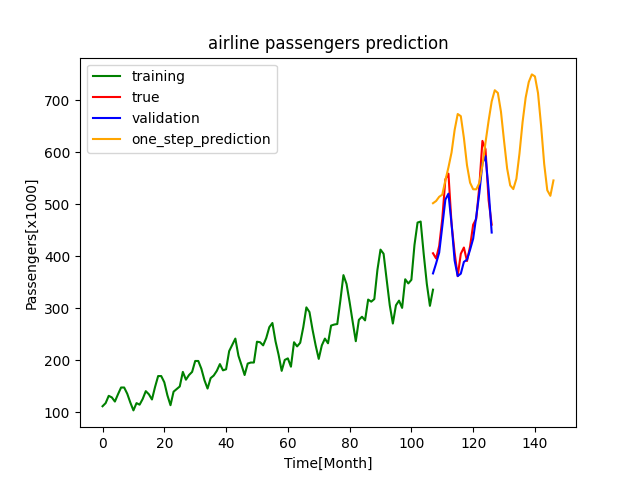
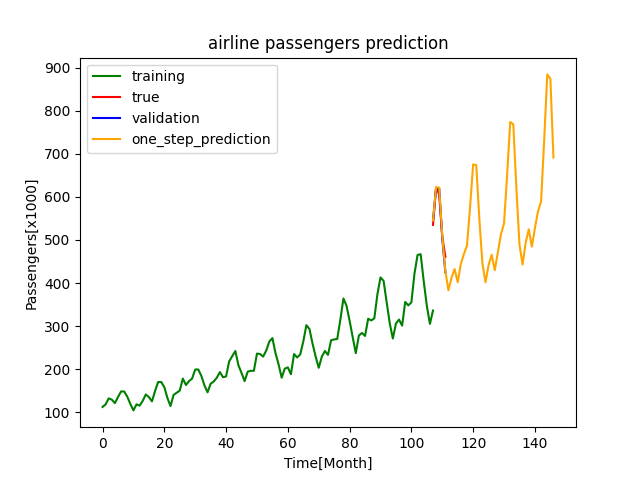
adjust parameters for airline_passengers_forecasting_keras.py

diff --git a/TimeSeriesPrediction/2_UnivariantTimeSeriesForecast/AirlinePassengers/Keras/airline_passengers_forecasting_keras.py b/TimeSeriesPrediction/2_UnivariantTimeSeriesForecast/AirlinePassengers/Keras/airline_passengers_forecasting_keras.py
@@ -4,8 +4,6 @@ import tensorflow as tf
 import matplotlib.pyplot as plt
 from sklearn.preprocessing import MinMaxScaler
 
-# Normalizer, LSTM, LSTM-Architecture, Beschreibung
-
 
 class AirlinePassengersDataSet:
     def __init__(self):
@@ -36,20 +34,24 @@ def create_timeseries(data, previous=1):
     return np.array(inputs), np.array(targets)
 
 
-lookback = 15
+lookback = 30
 train_inputs, train_targets = create_timeseries(train, lookback)
 test_inputs, test_targets = create_timeseries(test, lookback)
 
 train_inputs = np.reshape(train_inputs, (train_inputs.shape[0], 1, train_inputs.shape[1]))
 test_inputs = np.reshape(test_inputs, (test_inputs.shape[0], 1, test_inputs.shape[1]))
 
-
+# training scedular learning rate wird angepasst nach x epochs
+# Bidirectionales lernen - Zeitreihe umkehren - https://keras.io/examples/nlp/bidirectional_lstm_imdb/
+# Kompletten daten fürs Training nehmen
+# Masked traning - Lücken in Traningsdaten schließen
 def create_LSTM_model(inputs, targets, lookback):
     model = tf.keras.Sequential()
-    model.add(tf.keras.layers.LSTM(8, input_shape=(1, lookback)))
+    model.add(tf.keras.layers.LSTM(50, input_shape=(1, lookback)))
+    #model.add(tf.keras.layers.Dropout)
     model.add(tf.keras.layers.Dense(units=1))
-    model.compile(optimizer=tf.keras.optimizers.Adam(0.001), loss='mean_squared_error')
-    model.fit(inputs, targets, epochs=25, batch_size=1)
+    model.compile(optimizer=tf.keras.optimizers.Adam(0.0001), loss='mean_squared_error')
+    model.fit(inputs, targets, epochs=200, batch_size=1)
     return model
 
 
@@ -80,7 +82,7 @@ def one_step_ahead_forecast(model, current_value, number_of_predictions):
     return one_step_ahead_forecast
 
 
-start_value = train_inputs[-1]
+start_value = test_inputs[0]
 start_value_reshaped = start_value.reshape(start_value.shape[0], 1, start_value.shape[1])
 number_of_predictions = 40
 prediction_results = one_step_ahead_forecast(model, start_value_reshaped, number_of_predictions)
